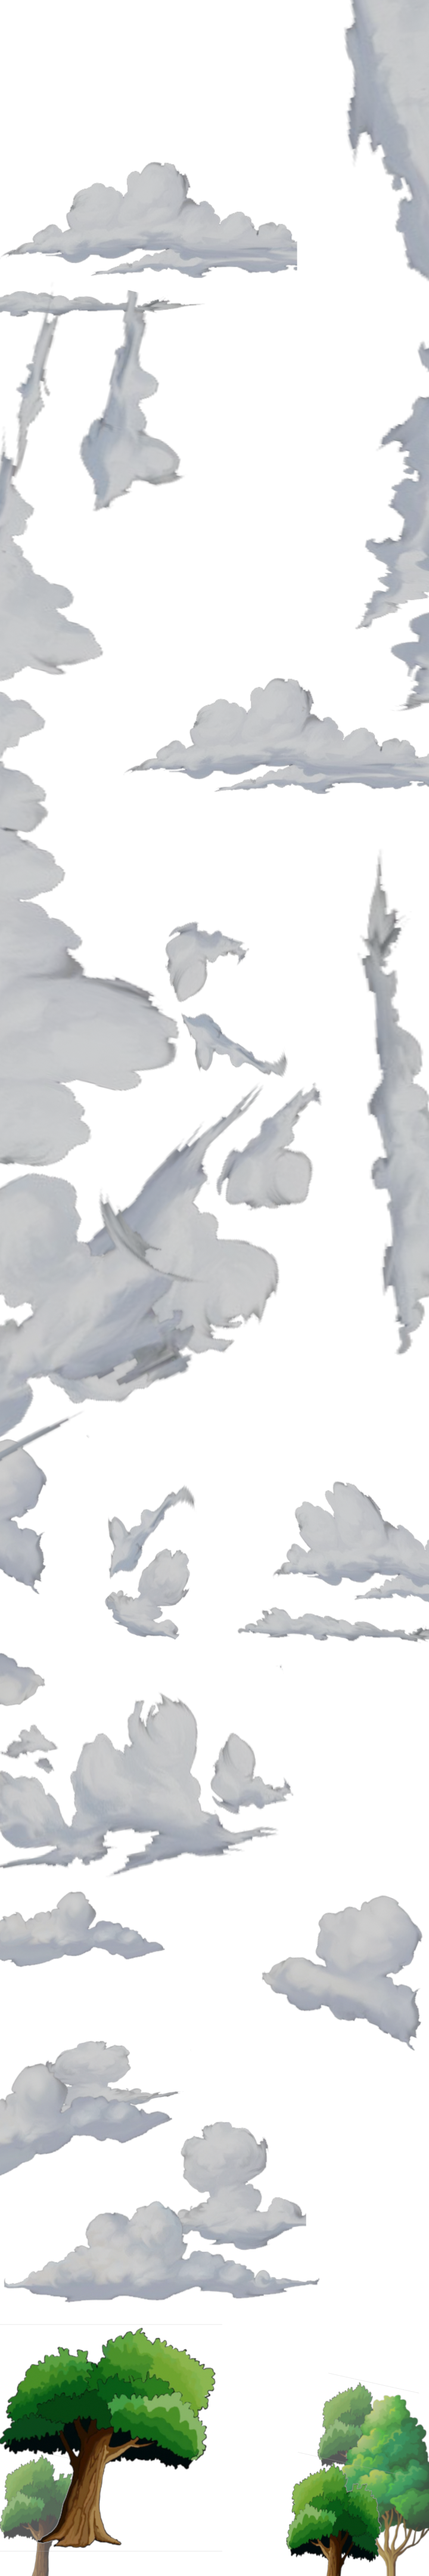
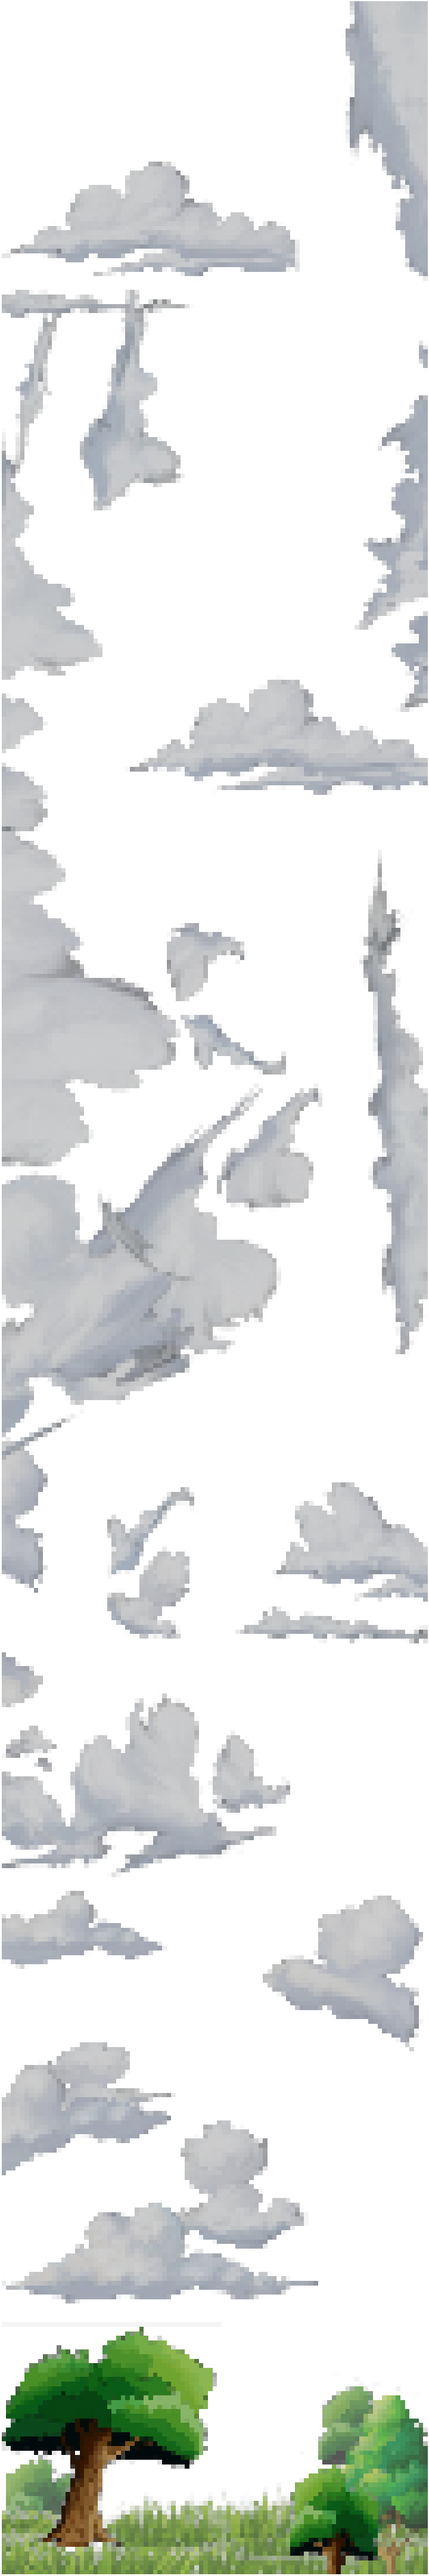
Exact Player Positioning * Used a float based Vector2 data type to store the location of the player. This makes the movement much smoother. * Pixilated the Cloud and Tree obstacles.

diff --git a/Gust/player.py b/Gust/player.py
@@ -27,11 +27,14 @@ class Player(Sprite):
         self.rect.y = int(self.display_surface.get_rect().height * 0.75)
         self.velocity = pygame.Vector2(0, 0)
         self.intended_direction = Direction.STATIONARY
+        self.exact_center = pygame.Vector2(self.rect.center)
 
     def draw(self) -> None:
         self.display_surface.blit(self.image, self.rect)
 
     def get_input(self, events: List[Event]) -> None:
+        # * Code works but can probably be simplified by tracking most recent key press
+
         for event in events:
             if event.type == pygame.KEYDOWN:
                 if event.key == pygame.K_LEFT:
@@ -45,8 +48,6 @@ class Player(Sprite):
                     self.intended_direction = Direction.LEFT
 
         key = pygame.key.get_pressed()
-        if key == pygame.K_LEFT:
-            self.intended_direction = key
         if key[pygame.K_LEFT] and self.intended_direction != Direction.RIGHT:
             if self.velocity.x > 0:
                 self.velocity.x = 0
@@ -57,7 +58,8 @@ class Player(Sprite):
             self.velocity.x += ACCELERATION_VALUE
 
     def update_position(self) -> None:
-        self.rect.x += int(self.velocity.x)
+        self.exact_center += self.velocity.x, self.velocity.y
+        self.rect.center = int(self.exact_center.x), int(self.exact_center.y)
         self.rect.y += int(self.velocity.y)
         # damping / friction
         self.velocity *= 0.98
